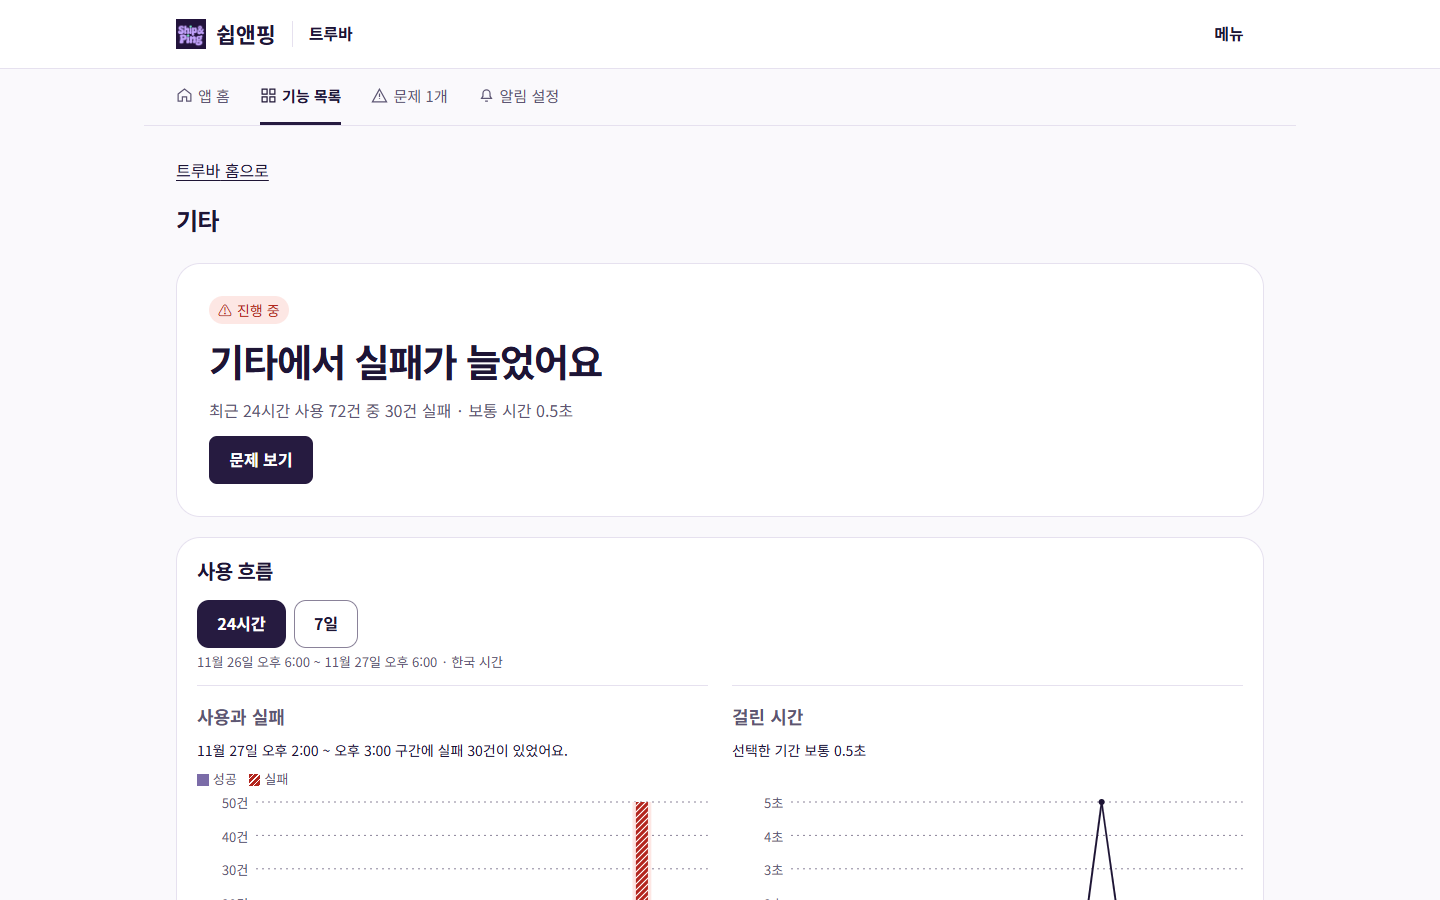
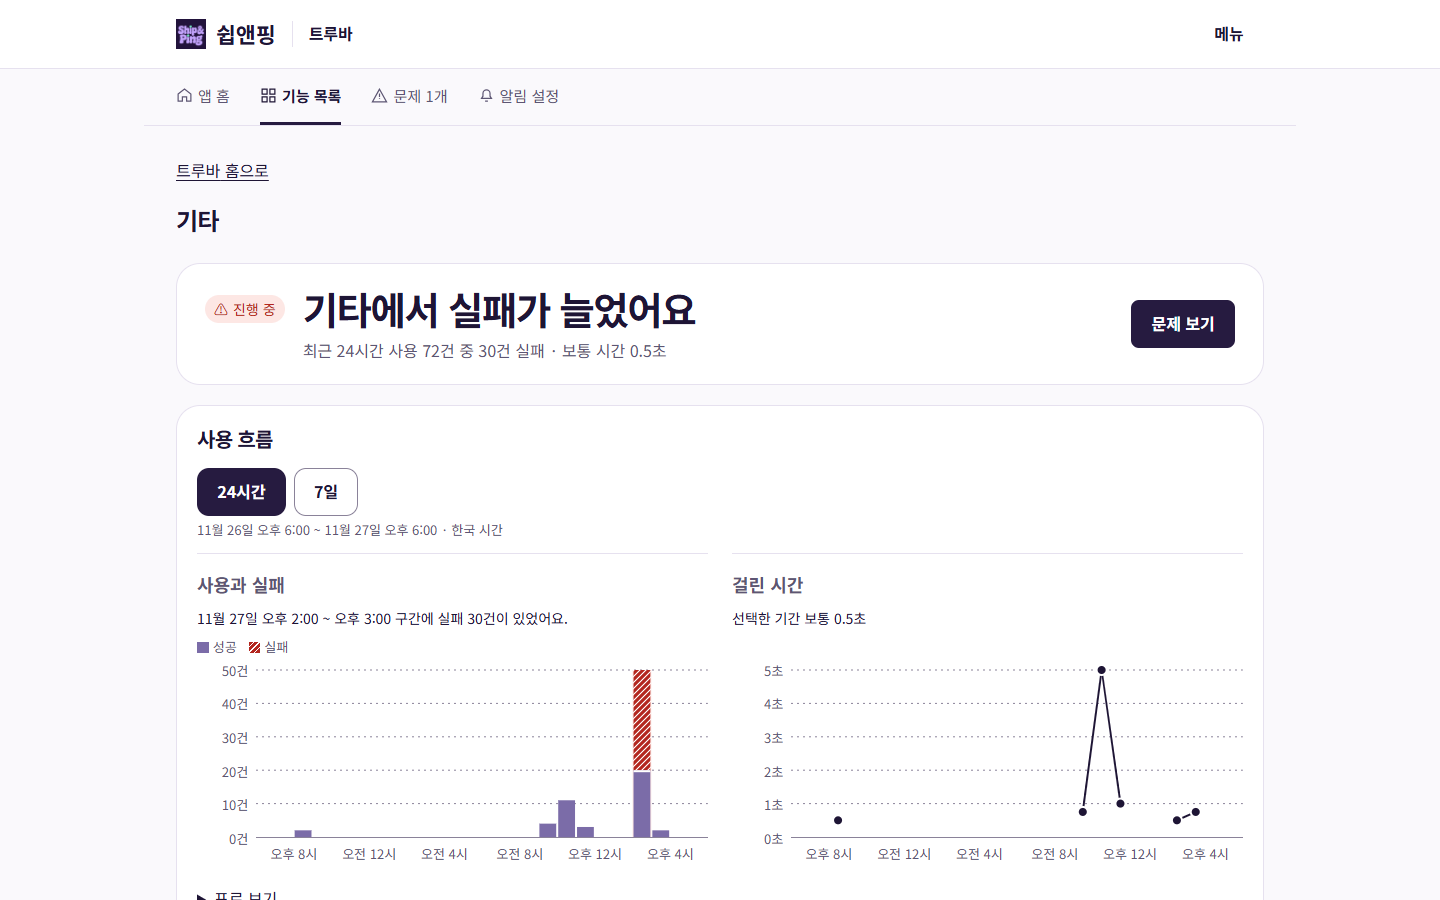
fix: 대시보드 복사 오류와 감지 시점 표시 수정

diff --git a/web/src/Monitor.tsx b/web/src/Monitor.tsx
@@ -36,8 +36,7 @@ const route = (f: Feature) =>
   displayText(
     [f.method, sanitizeRoute(f.route ?? "")].filter(Boolean).join(" "),
   );
-function details(i: Incident, f?: Feature) {
-  const m = i.metric_worst ?? i.metric_at_open;
+function details(i: Incident, m: Incident["metric_at_open"], f?: Feature) {
   if (!m) return when(i.opened_at) + "부터";
   if (i.kind === "unconfirmed")
     return "사용 결과를 확인하지 못했어요 · " + when(i.opened_at) + "부터";
@@ -201,7 +200,7 @@ function Home({ data, base }: { data: Monitor; base: string }) {
         <div className="incident-ticket">
           <div className="ticket-heading"><span className="ticket-symbol" aria-hidden="true">⚠</span><div>
             <small>{displayText(find(first)?.name ?? "기능")} · 감지 당시</small>
-            {first.kind === "failure" && failed != null ? <dl><dt>실패 건수</dt><dd>{failed}건</dd></dl> : <p>{details(first,find(first))}</p>}
+            {first.kind === "failure" && failed != null ? <dl><dt>실패 건수</dt><dd>{failed}건</dd></dl> : <p>{details(first, first.metric_at_open, find(first))}</p>}
           </div></div>
           <p>처음 감지 · <time dateTime={first.opened_at}>{when(first.opened_at)}</time></p>
           <Link className="button dashboard-primary" to={action.to}>{action.label}</Link>
@@ -224,14 +223,14 @@ function Home({ data, base }: { data: Monitor; base: string }) {
               <span className={"row-state " + (problem ? "problem" : s.total ? "healthy" : "waiting")}>
                 <span aria-hidden="true">{problem ? "⚠" : s.total ? "✓" : "◷"}</span> {problem ? "문제 있어요" : s.total ? "괜찮아요" : "사용을 기다려요"}
               </span>
-              <span>{s.total}건 사용</span><span>{s.failures}건 실패</span><span aria-hidden="true" className="row-next">›</span>
-              <span className={showSpeed ? "row-metrics" : "sr-only"}>사용 {s.total}건 중 {s.failures}건이 실패했어요. 보통 걸린 시간은 {time(s.median)}예요.{" "}
+              <span>{s.total}건 사용</span>{f.kind !== "deep" && <span>{s.failures}건 실패</span>}<span aria-hidden="true" className="row-next">›</span>
+              {showSpeed && <span className="row-metrics">보통 걸린 시간은 {time(s.median)}예요.{" "}
                 {baseline?.p50_ms != null ? "평소 " + time(baseline.p50_ms) : low != null && high != null
-                  ? "지금까지 " + (baseline?.sample_count ?? s.total) + "건, " + time(low) + "~" + time(high) : "평소 속도를 알아가는 중이에요"}</span>
+                  ? "지금까지 " + (baseline?.sample_count ?? s.total) + "건, " + time(low) + "~" + time(high) : "평소 속도를 알아가는 중이에요"}</span>}
               {f.kind === "deep" && <Outcomes stats={s} />}
             </Link>;
           }) : <p>아직 기록된 기능이 없어요.</p>}
-          {rows.length > 0 && <button className="speed-toggle secondary" aria-pressed={showSpeed}
+          {rows.length > 0 && <button className="speed-toggle secondary" aria-expanded={showSpeed}
             onClick={() => setShowSpeed(value => !value)}>기능별 속도 {showSpeed ? "접기" : "보기"}</button>}
         </section>
         <section className="panel other-hours"><h2>다른 시간대 기록</h2>
@@ -243,7 +242,7 @@ function Home({ data, base }: { data: Monitor; base: string }) {
       </div>
       <section id="issues" className="panel dashboard-history"><h2>문제 기록</h2>
         {data.incidents.length ? data.incidents.map(i => <IssueListItem key={i.id} href={base + "/issues/" + i.id}
-          summary={title(find(i), i)} state={i.status} metric={details(i, find(i))} />) : <p>열린 문제가 없어요.</p>}
+          summary={title(find(i), i)} state={i.status} metric={(i.metric_worst ? "가장 나빴을 때 · " : "감지 당시 · ") + details(i, i.metric_worst ?? i.metric_at_open, find(i))} />) : <p>열린 문제가 없어요.</p>}
       </section>
       {latest && data.versions.every(v => Date.parse(v.last_seen_at) < data.now - day) &&
         <p>하루 동안 기록이 없어요 — 사용자가 없었거나 연결이 끊겼을 수 있어요</p>}
@@ -327,7 +326,6 @@ function FeaturePage({
         <Chart key={days} rows={rows} days={days} now={data.now} baseline={f.baselines?.p50_ms ?? null} />
         </details>
       </section>
-      <div className="dashboard-dock"><Link className="button" to={destination}>{action}</Link></div>
       <section>
         <h2>최근 버전 비교</h2>
         <table>
@@ -391,6 +389,7 @@ function FeaturePage({
         <button disabled={busy} aria-busy={busy}>{busy ? "저장하는 중" : "저장"}</button>
         <p role="status">{result}</p>
       </form>
+      <div className="dashboard-dock"><Link className="button" to={destination}>{action}</Link></div>
     </>
   );
 }
@@ -521,10 +520,10 @@ function Issue({
   function summaryDetail() {
     if (i.status === "dismissed" && i.closed_at)
       return when(new Date(Date.parse(i.closed_at) + day).toISOString()) + "까지 다시 알리지 않아요.";
-    if (i.status === "resolved") return "해결 전 기록 · " + details(i, f);
+    if (i.status === "resolved") return "해결 전 기록 · " + details(i, metric, f);
     if (i.kind === "unconfirmed" && metric?.unconfirmed != null)
       return "사용 결과를 확인하지 못한 기록 " + displayText(String(metric.unconfirmed)) + "건";
-    return hasFailureCounts && !i.metric_at_open?.consecutive ? "감지 구간 · 최근 30분" : details(i, f);
+    return hasFailureCounts && !i.metric_at_open?.consecutive ? "감지 구간 · 최근 30분" : details(i, metric, f);
   }
   async function close() {
     setBusy(true);
@@ -547,7 +546,6 @@ function Issue({
         title={summaryTitle()} detail={summaryDetail()} />
       <div className="issue-copy"><Copy compact text={prompt.text} title={copyTitle} /></div>
       </section>
-      <div className="dashboard-dock issue-dock"><Copy compact text={prompt.text} title={copyTitle} /></div>
       {f.kind === "deep" && <section><h2>문제 감지 구간부터의 결과</h2><Outcomes stats={summarize(data.stats.filter(r => r.feature_id === f.id && Date.parse(r.bucket) <= Date.parse(i.closed_at ?? new Date(data.now).toISOString())))} /></section>}
       <div className="issue-columns">
         <div className="issue-history">
@@ -633,6 +631,7 @@ function Issue({
           <p role="status">{feedback}</p>
         </div>
       </div>
+      <div className="dashboard-dock issue-dock"><Copy compact text={prompt.text} title={copyTitle} /></div>
     </>
   );
 }

diff --git a/web/src/styles/dashboard.css b/web/src/styles/dashboard.css
@@ -67,7 +67,6 @@
 .row-next { font-size: 1.35rem; color: var(--sp-ink-2); }
 .feature-row p, .feature-row .row-metrics { grid-column: 1/-1; }
 .feature-list .speed-toggle { margin-top: 4px; font-size: .875rem; }
-.feature-row .sr-only { position: absolute; width: 1px; height: 1px; clip-path: inset(50%); overflow: hidden; }
 .hour-row { display: grid; grid-template-columns: 4.4em 1fr; gap: 8px; padding-block: 14px; font-size: .94rem; }
 .hour-row + .hour-row { border-top: 1px solid var(--sp-line); }
 .hour-row:last-child { padding-bottom: 0; }
@@ -97,6 +96,12 @@
 .flow-plots .flow-plot { border-top: 0; }
 .flow-plots .flow-figure .flow-plot { height: 168px; }
 @media (min-width: 761px) {
+  .monitor .dashboard-state:has(+ .usage-panel) {
+    display: grid; grid-template-columns: auto minmax(0,1fr) auto;
+    align-items: center; gap: 4px 18px; padding: 20px 28px;
+  }
+  .dashboard-state:has(+ .usage-panel) p { grid-column: 2; }
+  .dashboard-state:has(+ .usage-panel) .button { grid-column: 3; grid-row: 1 / 3; }
   .flow-plots .flow-figure { display: grid; grid-template-rows: subgrid; grid-row: span 4; row-gap: 4px; }
   .flow-plots .flow-figure .flow-coordinates { grid-row: 4; margin-top: 8px; }
   .flow-plots .flow-figure .flow-key { grid-row: 3; margin: 0; }
@@ -109,7 +114,7 @@
   .dashboard-tabs a { font-size: .83rem; min-height: 50px; }
   .dashboard-shell .workspace { padding: 24px 16px calc(88px + env(safe-area-inset-bottom)); }
   .dashboard-shell .monitor { gap: 12px; }
-  .dashboard-shell .workspace:has(.dashboard-dock, .issue-copy) { scroll-padding-bottom: 84px; }
+  .dashboard-shell .workspace:has(.dashboard-dock) { padding-bottom: 0; }
   .dashboard-shell .workspace :focus-visible { scroll-margin-block: 16px 84px; }
   .monitor .dashboard-title h1 { font-size: 1.75rem; }
   .dashboard-shell .dashboard-title { margin: 0; }
@@ -125,11 +130,12 @@
   .feature-row .row-next { grid-column: 3; grid-row: 1/3; }
   .monitor .dashboard-state, .monitor .issue-overview { padding: 22px 18px; }
   .dashboard-dock {
-    display: grid; position: fixed; inset: auto 0 0; z-index: 3; padding: 8px 16px max(8px,env(safe-area-inset-bottom));
+    display: grid; position: sticky; bottom: 0; z-index: 3; margin-inline: -16px;
+    padding: 8px 16px max(8px,env(safe-area-inset-bottom));
     background: var(--sp-surface); border-top: 1px solid var(--sp-line);
   }
   .dashboard-dock .button, .issue-copy, .issue-copy .sp-copy button, .issue-dock button { width: 100%; min-height: 48px; }
-  .issue-dock { max-height: 55dvh; overflow: auto; }
+  .issue-dock:has(textarea) { position: static; }
   .issue-dock .sp-copy > :empty { display: none; }
   .monitor .chart-fold > summary { display: list-item; }
   .dashboard-channels .panel { padding: 20px; }

diff --git a/web/src/Chart.tsx b/web/src/Chart.tsx
@@ -72,7 +72,8 @@ function DurationMarks({ points, max, baseline }: { points: Bucket[]; max: numbe
         <path key={run[0]} className="duration-run" d={run.join(" ")} vectorEffect="non-scaling-stroke" />)}
     </svg>
     {points.map(({ median }, i) => median !== null && <circle key={i}
-      cx={percent(center(i, points.length))} cy={percent(y(plotTime(median), max))} r="3" />)}
+      cx={percent(center(i, points.length))} cy={percent(y(plotTime(median), max))} r="5"
+      stroke="var(--sp-surface)" strokeWidth="2" />)}
   </>;
 }
 
@@ -85,14 +86,18 @@ function CountMarks({ points, max }: { points: Bucket[]; max: number }) {
       <path d="M-1 1L1 -1 M0 6L6 0 M5 7L7 5" stroke="var(--sp-surface)" />
     </pattern></defs>
     {points.map((p, i) => {
-      const left = percent((i + 0.18) * slot);
-      const width = percent(0.64 * slot);
+      const left = `calc(${percent(i * slot)} + 1px)`;
+      const width = `calc(${percent(slot)} - 2px)`;
       const excluded = p.total - p.eligible;
       return <g key={i}>
         {p.failures > 0 && <rect x={percent(i * slot)} width={percent(slot)} height="100%" fill="var(--sp-bad-soft)" />}
         <rect x={left} width={width} y={percent(y(p.successes, max))} height={percent(100 * p.successes / max)} fill="var(--sp-chart)" />
         <rect x={left} width={width} y={percent(y(p.eligible, max))} height={percent(100 * p.failures / max)} fill={`url(#${stripes})`} />
         {excluded > 0 && <rect x={left} width={width} y={percent(y(p.total, max))} height={percent(100 * excluded / max)} fill="var(--sp-line-strong)" />}
+        {p.successes > 0 && p.failures > 0 && <rect x={left} width={width} y={percent(y(p.successes, max))}
+          height={`min(2px, ${percent(50 * p.successes / max)})`} fill="var(--sp-surface)" />}
+        {p.eligible > 0 && excluded > 0 && <rect x={left} width={width} y={percent(y(p.eligible, max))}
+          height={`min(2px, ${percent(50 * (p.failures || p.successes) / max)})`} fill="var(--sp-surface)" />}
       </g>;
     })}
   </>;

diff --git a/docs/design/qa/dashboard-b/index.html b/docs/design/qa/dashboard-b/index.html
@@ -20,7 +20,9 @@ img{display:block;max-width:100%;height:auto;border:1px solid #d4cedf}a{color:in
 <figure><figcaption>구현 · 실제 앱</figcaption><a id="app"><img alt="구현 후 실제 앱"></a></figure></div>
 <details><summary>같은 조건의 구현 전 화면</summary><a id="before"><img alt="구현 전 실제 앱"></a></details>
 <nav><a href="../../dashboard-2026-11-27/index.html">시안 비교로 돌아가기</a>
-<a href="comparison-1440.png">1440px 3단 비교 PNG</a><a href="comparison-390.png">390px 3단 비교 PNG</a></nav>
+<a href="comparison-1440.png">1440px 차트 비교 · 밝게</a><a href="comparison-1440-dark.png">1440px 차트 비교 · 어둡게</a>
+<a href="comparison-390.png">390px 차트 비교 · 밝게</a><a href="comparison-390-dark.png">390px 차트 비교 · 어둡게</a>
+<a href="after/copy-denied-390-light.png">390px 복사 거부 · 밝게</a><a href="after/copy-denied-390-dark.png">390px 복사 거부 · 어둡게</a></nav>
 <script>
 const form = document.querySelector("form");
 const scene = document.getElementById("scene"), width = document.getElementById("width"), theme = document.getElementById("theme");

diff --git a/docs/위임로그/김태형.md b/docs/위임로그/김태형.md
@@ -423,3 +423,4 @@
 | 제작자가 앱 상태와 다음 행동을 보고 대시보드 방향을 선택한다. | [T42 지시문과 휴대폰 추가 결정](../../prompts/tasks/T42.md) | [세 시안 전후 비교](../design/dashboard-2026-11-27/index.html). B는 문제 수와 이유, 문제로 가는 버튼을 첫 카드에 둔다. | Windows Edge 1440·390px, 밝게·어둡게 72장. 실패 30건 빗금, 기간·표·키보드 툴팁, 알림에서 요청문 복사 흐름과 색 대비를 확인했다. [수치와 검증 범위](../design/dashboard-2026-11-27/README.md) | 휴대폰 차트를 접고 기간을 바꾸면 펼친 상태를 유지했다. 첫 화면 캡처와 전체 차트 캡처를 나눠 고정 버튼이 눈금을 가리지 않게 했다. | 5분간 몰린 실패와 1시간 막대 전체의 건수를 각각 표시하면 같은 사건을 다른 집계 단위에서 읽을 수 있다. |
 | 세 레퍼런스를 실측해 시안의 밀도·정보 순서·양의 역할을 검토한다. | [T42 레퍼런스와 재작업 지시](../../prompts/tasks/T42.md#t42-레퍼런스-확정-토스posthogplausible-비슷하게라도-높은-완성도) | A 앱 사용 흐름, B 상태 요약, C 양의 관찰 기록을 같은 데이터로 비교한다. [6개 좌우 비교와 실측표](../design/dashboard-2026-11-27/README.md) | 실제 사이트 5페이지를 두 너비에서 촬영했다. 기존 72개 조건·사진에 빈 화면·로딩·정상 36장, 원본 10장, 나란히 비교 6장을 추가했다. | A의 메뉴와 기간 선택을 압축하고 B의 모바일 중복 버튼을 제거했다. C의 모바일 문장 공백과 상태 카드에서 양이 잘리는 문제를 고쳤다. | 실제 Plausible 격자는 1px 실선이었다. 참고한 값과 쉽앤핑에서 요청한 점선 값을 따로 기록해야 선택 근거가 분명하다. |
 | 앱 상태를 읽고 문제 요청문을 바로 복사한다. | [T42 구현 지시문](../../prompts/tasks/T42.md) | [B안 실제 앱 검수](../design/qa/dashboard-b/README.md). 문제 수와 실패 건수를 분리하고 홈·기능·문제·알림을 적용했다. | 웹 테스트 2,852개·빌드·린트, 점선 변형 검출, Edge 전후 50장. | 390px 홈 중복 버튼과 머리말 줄바꿈, PC 그래프 축 높이를 수정했다. | 문제 최초 감지 시각과 5분 집계 시각은 의미가 달라 실제 앱이 받은 값에 따라 표기해야 한다. |
+| PR #41 검수에서 발견한 모바일 가림, 감지 값, 링크 이름과 차트를 고친다. | [T42-fix 지시문](../../prompts/tasks/T42.md#쉽앤핑-t42-fix--pr-41-검수-지적-고치기) | [검수표와 캡처](../design/qa/dashboard-b/README.md#pr-41-재검수). 390px 복사 거부 화면과 두 테마의 3단 비교를 갱신했다. | 웹 테스트 2,853개, 빌드·린트, 최악값 변형 검출. Edge에서 복사 전·성공·거부 때 닫기 버튼 클릭 가능 여부와 차트 치수를 검사했다. | 하단 영역이 실제 높이만큼 자리를 차지하도록 배치하고 감지 시점별 지표, 속도 펼침 상태, PC 상태 카드 배치를 고쳤다. | 복사 성공 안내도 하단 영역의 높이를 바꾸므로 오류 상태와 함께 본문 끝에서 검증해야 한다. |

diff --git a/docs/design/qa/dashboard-b/README.md b/docs/design/qa/dashboard-b/README.md
@@ -2,7 +2,7 @@
 
 [실제 앱 전후와 3단 비교](index.html) · [1440px 비교](comparison-1440.png) · [390px 비교](comparison-390.png)
 
-같은 트루바 예시 기록과 11월 27일 18시를 기준으로 Windows Edge에서 촬영했다. 두 너비와 두 테마에서 홈의 문제·정상·첫 기록 대기, 기능 상세, 문제 상세, 알림 설정을 확인했다. 변경 전 24장, 변경 후 26장이다. 변경 후에는 390px에서 그래프를 펼친 모습도 포함한다.
+같은 트루바 예시 기록과 11월 27일 18시를 기준으로 Windows Edge에서 촬영했다. 두 너비와 두 테마에서 홈의 문제·정상·첫 기록 대기, 기능 상세, 문제 상세, 알림 설정을 확인했다. 변경 전 24장, 변경 후 28장이다. 변경 후에는 390px에서 그래프를 펼친 모습과 복사 거부 후 본문 끝의 모습도 포함한다.
 
 | 화면 | 구현과 검증 |
 |---|---|
@@ -18,3 +18,12 @@
 웹 테스트 2,852개, 빌드, 린트와 산출물 검사를 통과했다. 점선을 실선으로 바꾼 변형에서 검출한 점선이 0개가 되어 테스트가 실패했다. 복원 후 다시 통과했다. 변경 후 24개 기본 화면에서 가로 넘침과 실행 오류를 검사하고 axe의 WCAG A·AA 규칙을 실행했다. 키보드 동작은 로컬 예시 계정으로 검증했다. 실제 회원 관찰과 실기기 화면 읽기 검수는 미실시다.
 
 재현은 `web/`에서 `node qa/dashboard-b.mjs after`를 실행한다. 변경 전 캡처에는 기준 커밋 `879b59f`의 앱 코드와 같은 캡처 스크립트를 사용한다.
+
+## PR #41 재검수
+
+| 검수 항목 | 확인한 결과 |
+|---|---|
+| 하단 복사 | 390×844에서 복사 전·성공·두 방식 모두 거부된 상태로 끝까지 스크롤했다. 버튼 위아래를 브라우저에서 직접 가리켜 ‘문제 아님으로 닫기’가 클릭을 받는지 확인했다. 수동 복사 입력란은 본문을 따라 스크롤된다. [밝게](after/copy-denied-390-light.png) · [어둡게](after/copy-denied-390-dark.png) |
+| 감지 시점 | 느림이 처음 감지된 5건·6초는 홈 요약에, 최악의 20건·12초는 열린 문제 목록에 표시된다. 홈 요약을 최악값으로 되돌린 변형에서 테스트가 실패했고 복원 후 웹 테스트 2,853개가 통과했다. |
+| 속도 펼치기 | 접힌 링크는 사용·실패 건수를 한 번씩 읽고, 펼친 링크에는 보통 시간과 평소 범위가 추가된다. 접기 전후 접근성 이름을 검사했다. |
+| 차트 | 점 지름 10px, 표면색 테두리 2px, 막대 사이 2px를 렌더링한 SVG에서 측정했다. 1440×900 첫 화면에서 두 가로축의 마지막 글자까지 읽을 수 있다. [1440px 어두운 비교](comparison-1440-dark.png) · [390px 어두운 비교](comparison-390-dark.png) |
